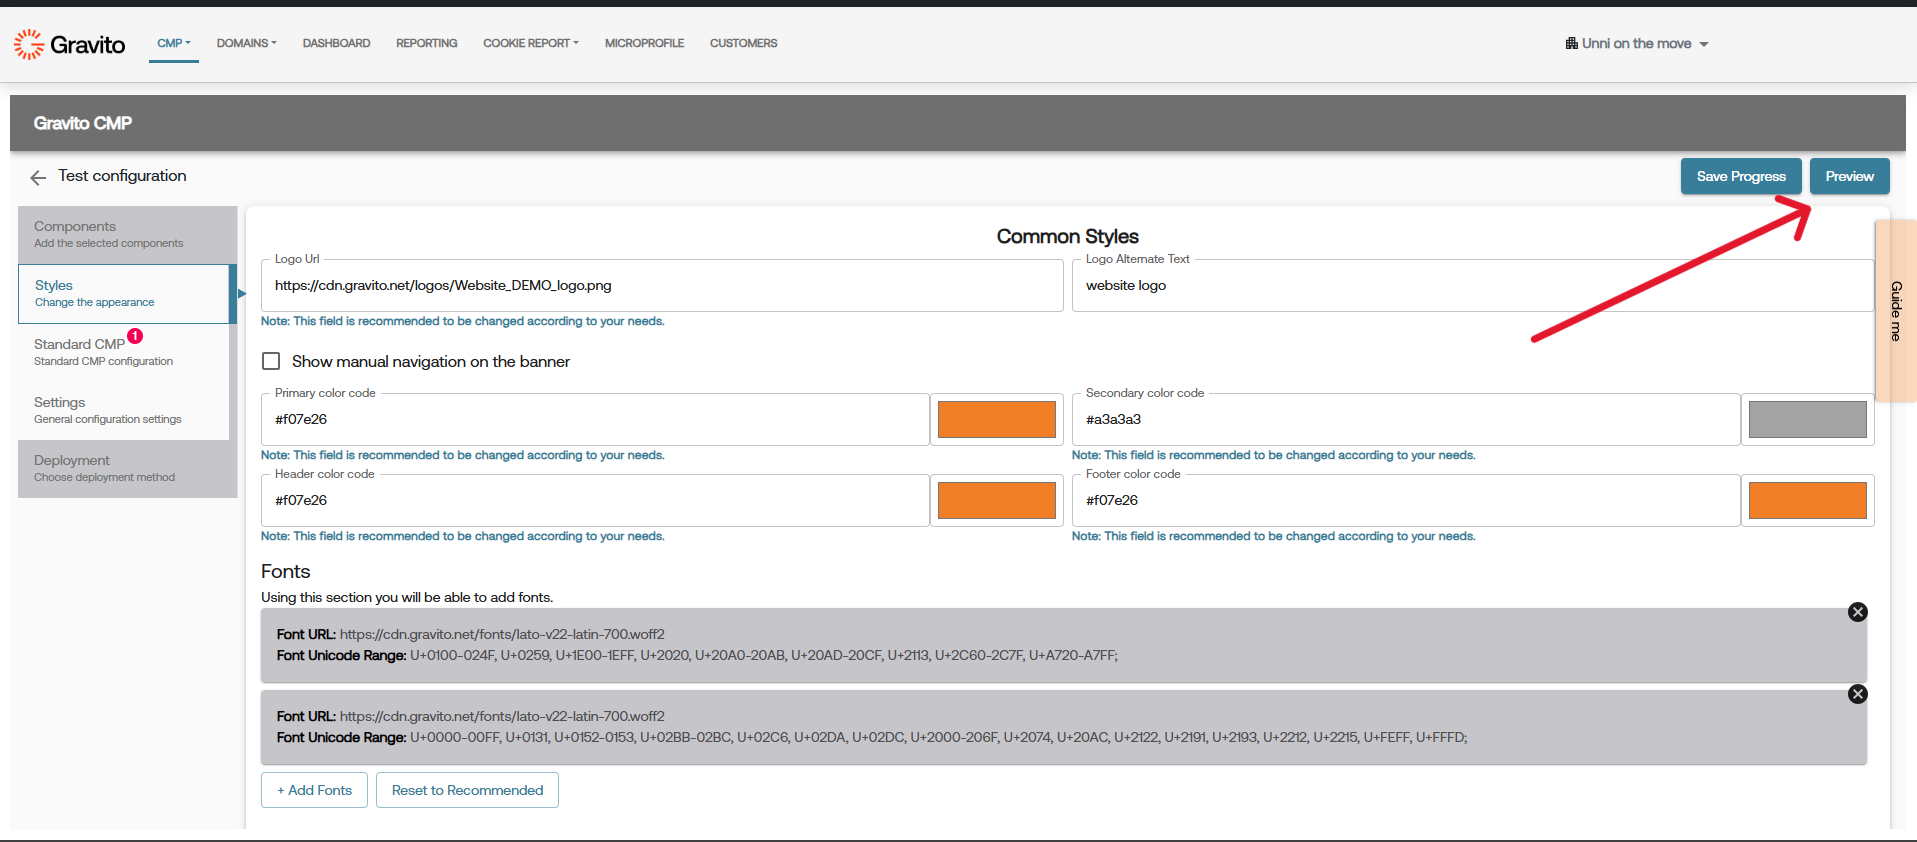
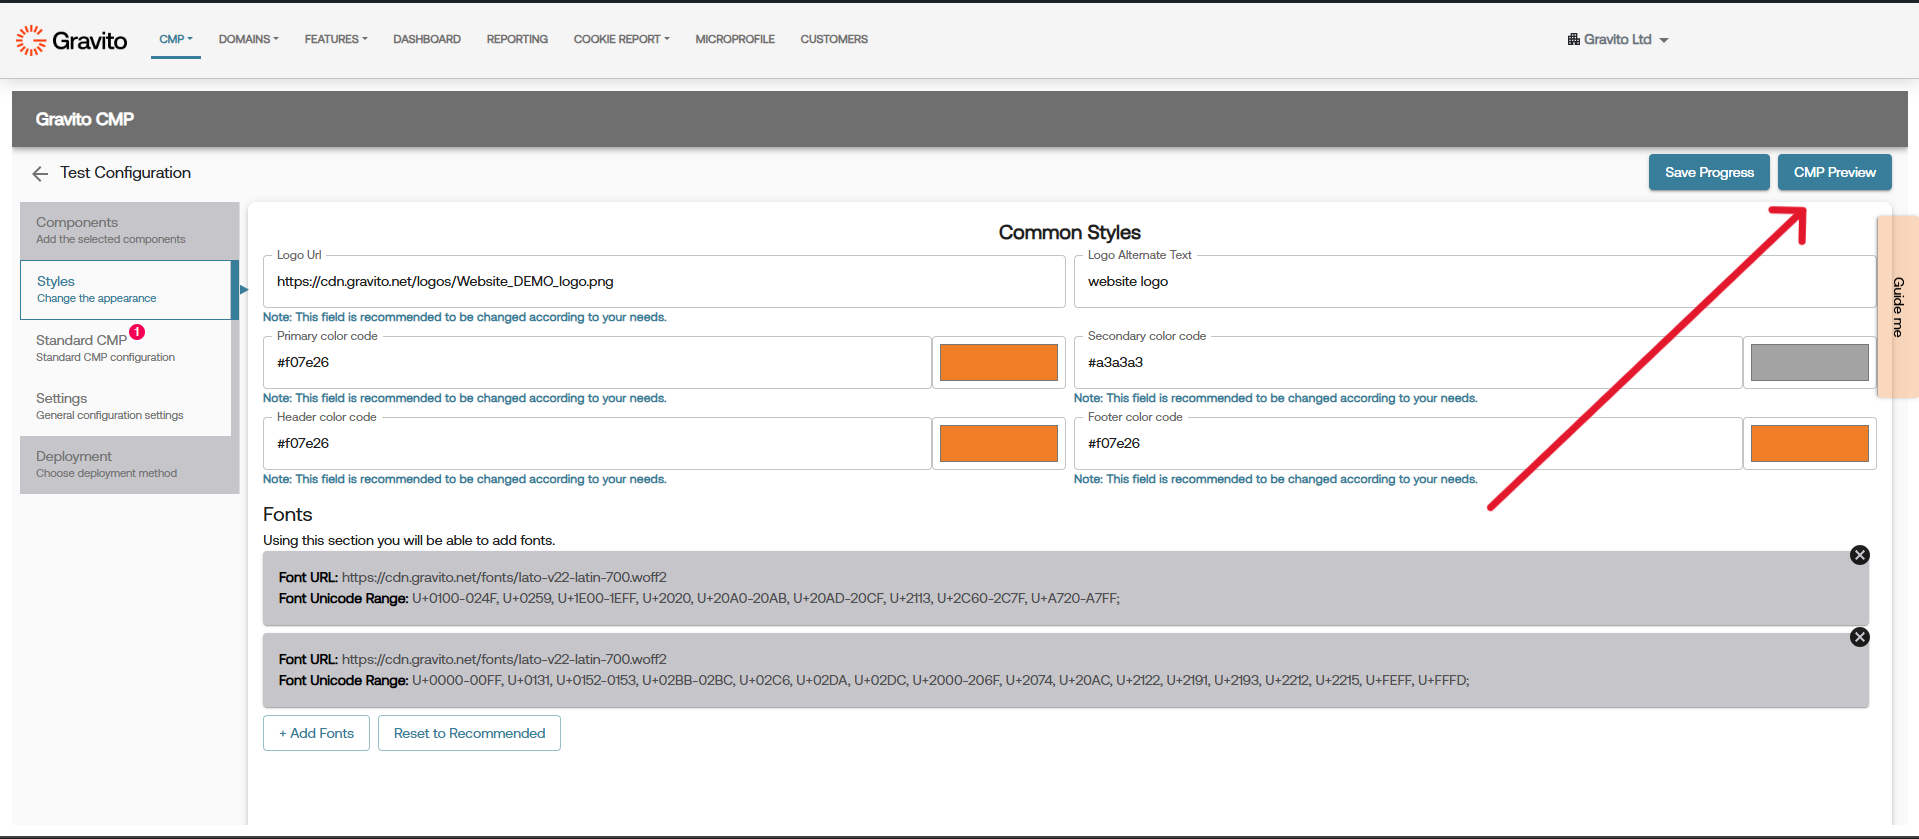
repositioning preview document

diff --git a/docs/Gravito_V6_CMP/Components/preview.md b/docs/Gravito_V6_CMP/Components/preview.md
@@ -5,10 +5,10 @@ The CMP Preview feature in Gravito CMP Configurator allows you to see how your c
 ## How to Use CMP Preview
 1. **Access the CMP Configurator**: Navigate to the Gravito CMP Configurator and choose the configuration you want to edit or create a new one.
 2. **Preview Button**: Look for the "Preview" button within the configurator interface. This button is typically located at the top right corner of the configurator.
-    ![](./img/preview_button.png)
+    ![](../img/preview_button.png)
 3. **View the Preview**: Clicking the "Preview" button will open a new window with a live preview of your CMP banner. You can interact with the banner to see how it behaves with different user actions.
 4. **Preview Window**: You an place the preview window however you find most convenient. We recommend placing the preview window side-by-side with the configurator to see changes in real-time as you make adjustments.
-    ![](./img/preview_window.png)
+    ![](../img/preview_window.png)
 >**Pro Tip**: You can also use multi-monitor setups to have the configurator on one screen and the preview on another for better visibility.
 5. **Make Customizations**: As you make changes in the configurator, the preview will automatically update to reflect those changes. This allows you to see how different configurations affect the appearance and functionality of the CMP banner.
 6. **Debugging**: You can use the browser's developer tools to inspect elements, view GCM dataLayer events, check consent string in cookies, and debug any issues that may arise during the preview.

diff --git a/docs/Gravito_V6_CMP/Setup_and_Design.md b/docs/Gravito_V6_CMP/Setup_and_Design.md
@@ -30,4 +30,4 @@ You can now go through each of the following sections and configure the CMP as p
 
 ![](./img/deployment_highlight.png)
 
-> **Note**: If you want to check how a published CMP looks like, you can always click the publish option from the CMP configuration listing. This will take you to the deployment page. Here you can use the **CMP Preview** button.
+> **Note**: If you want to preview how your customized CMP banner looks, click the “CMP Preview” button in the top-right corner of the Configurator page. For more details, refer to the [CMP Preview document](./Components/preview.md).
